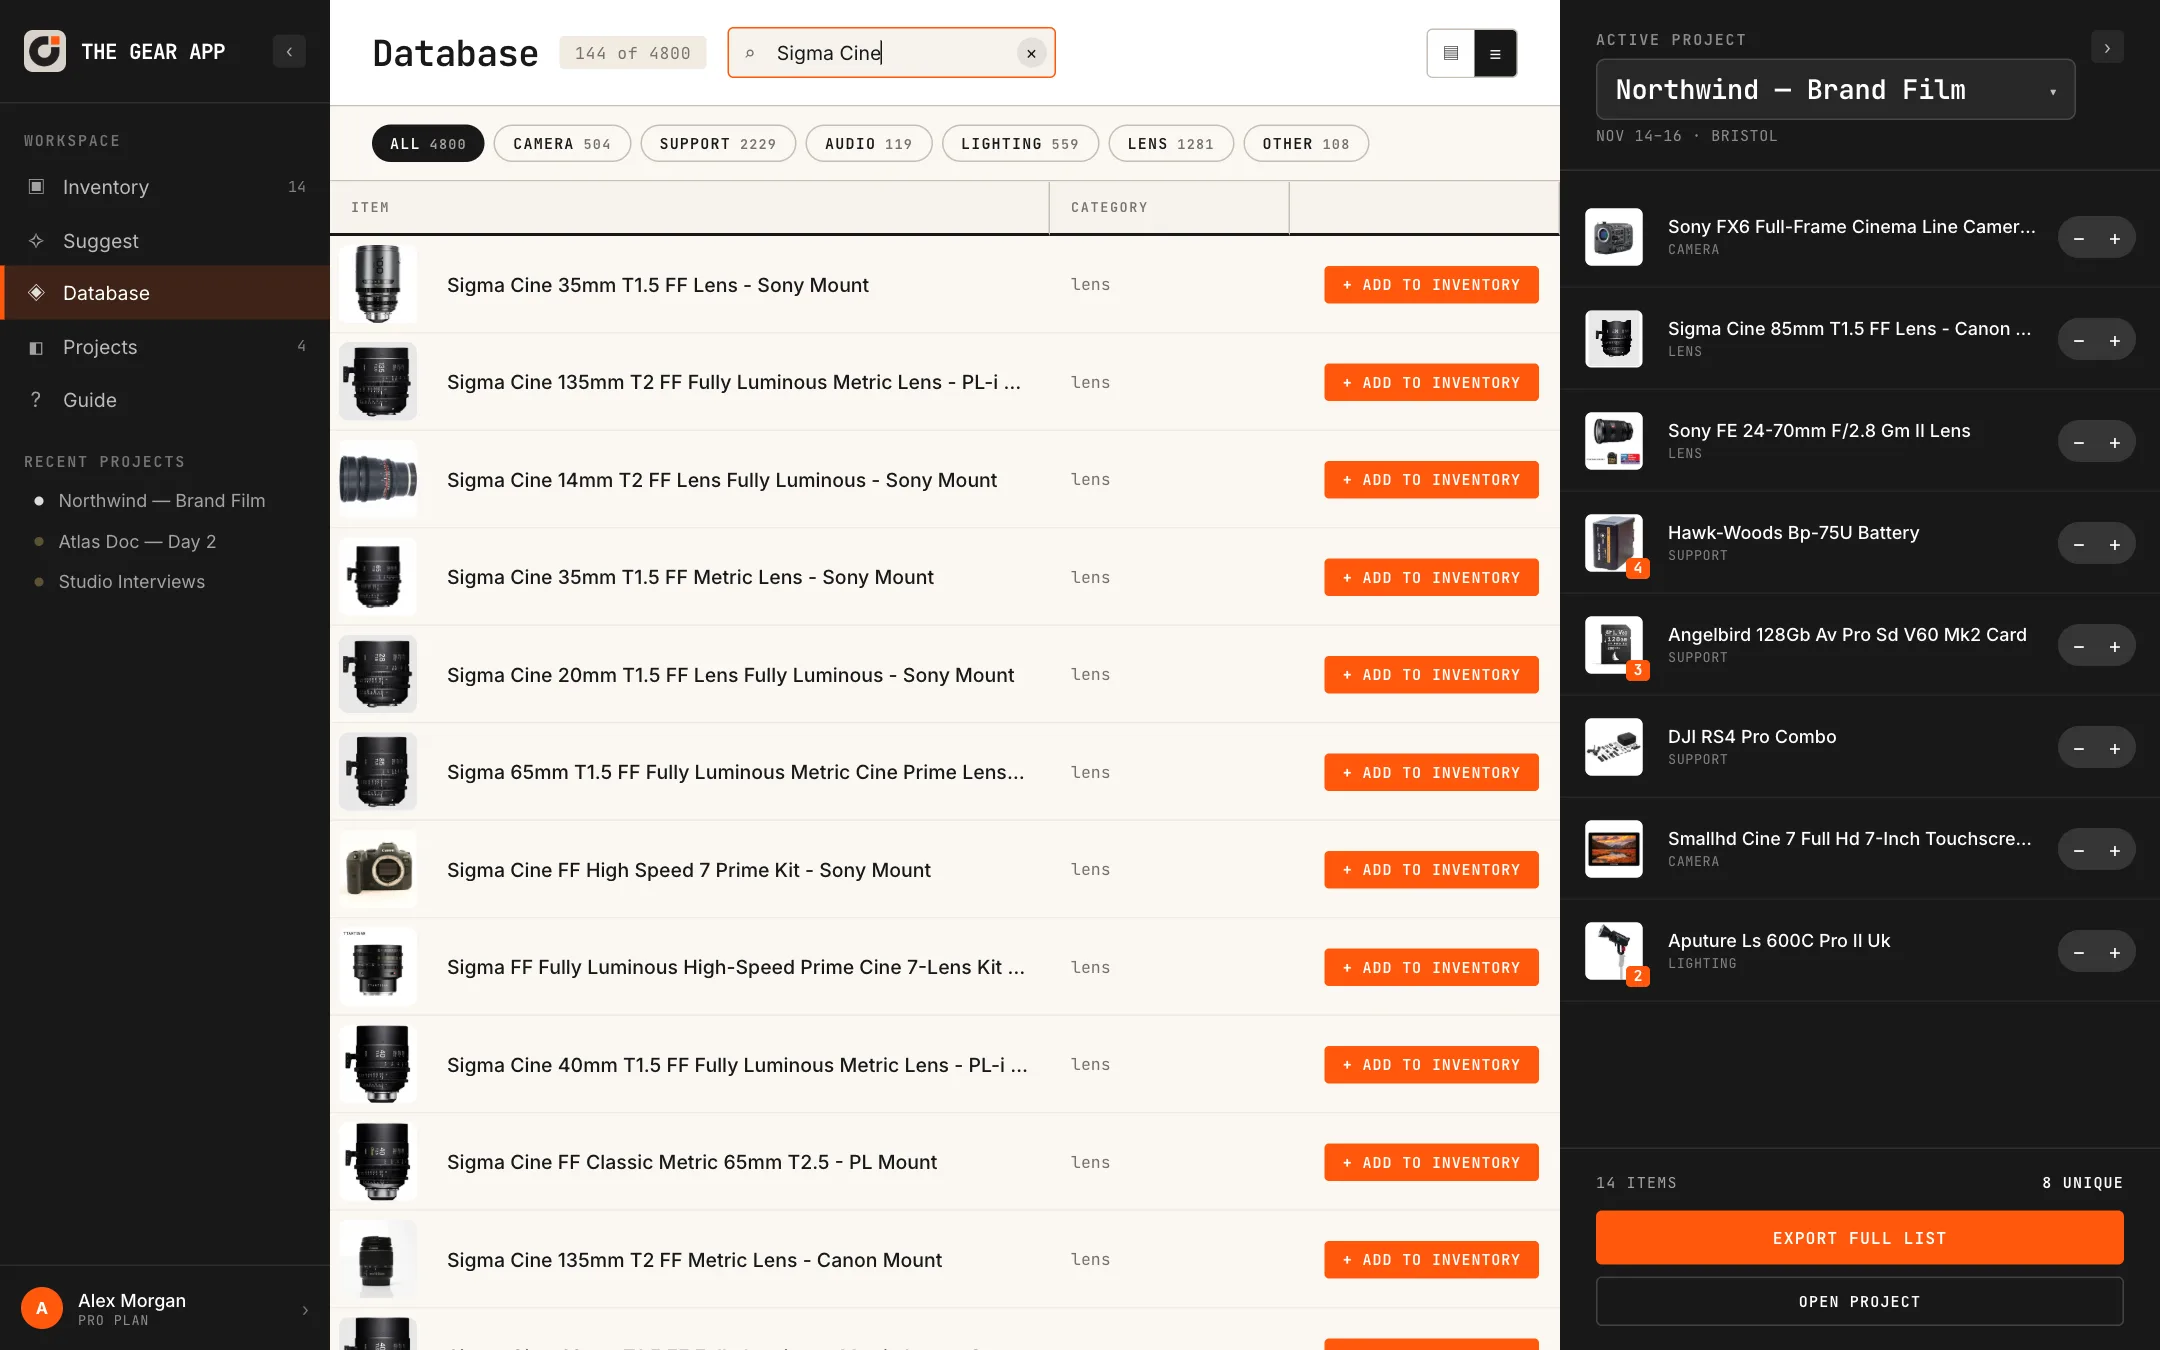
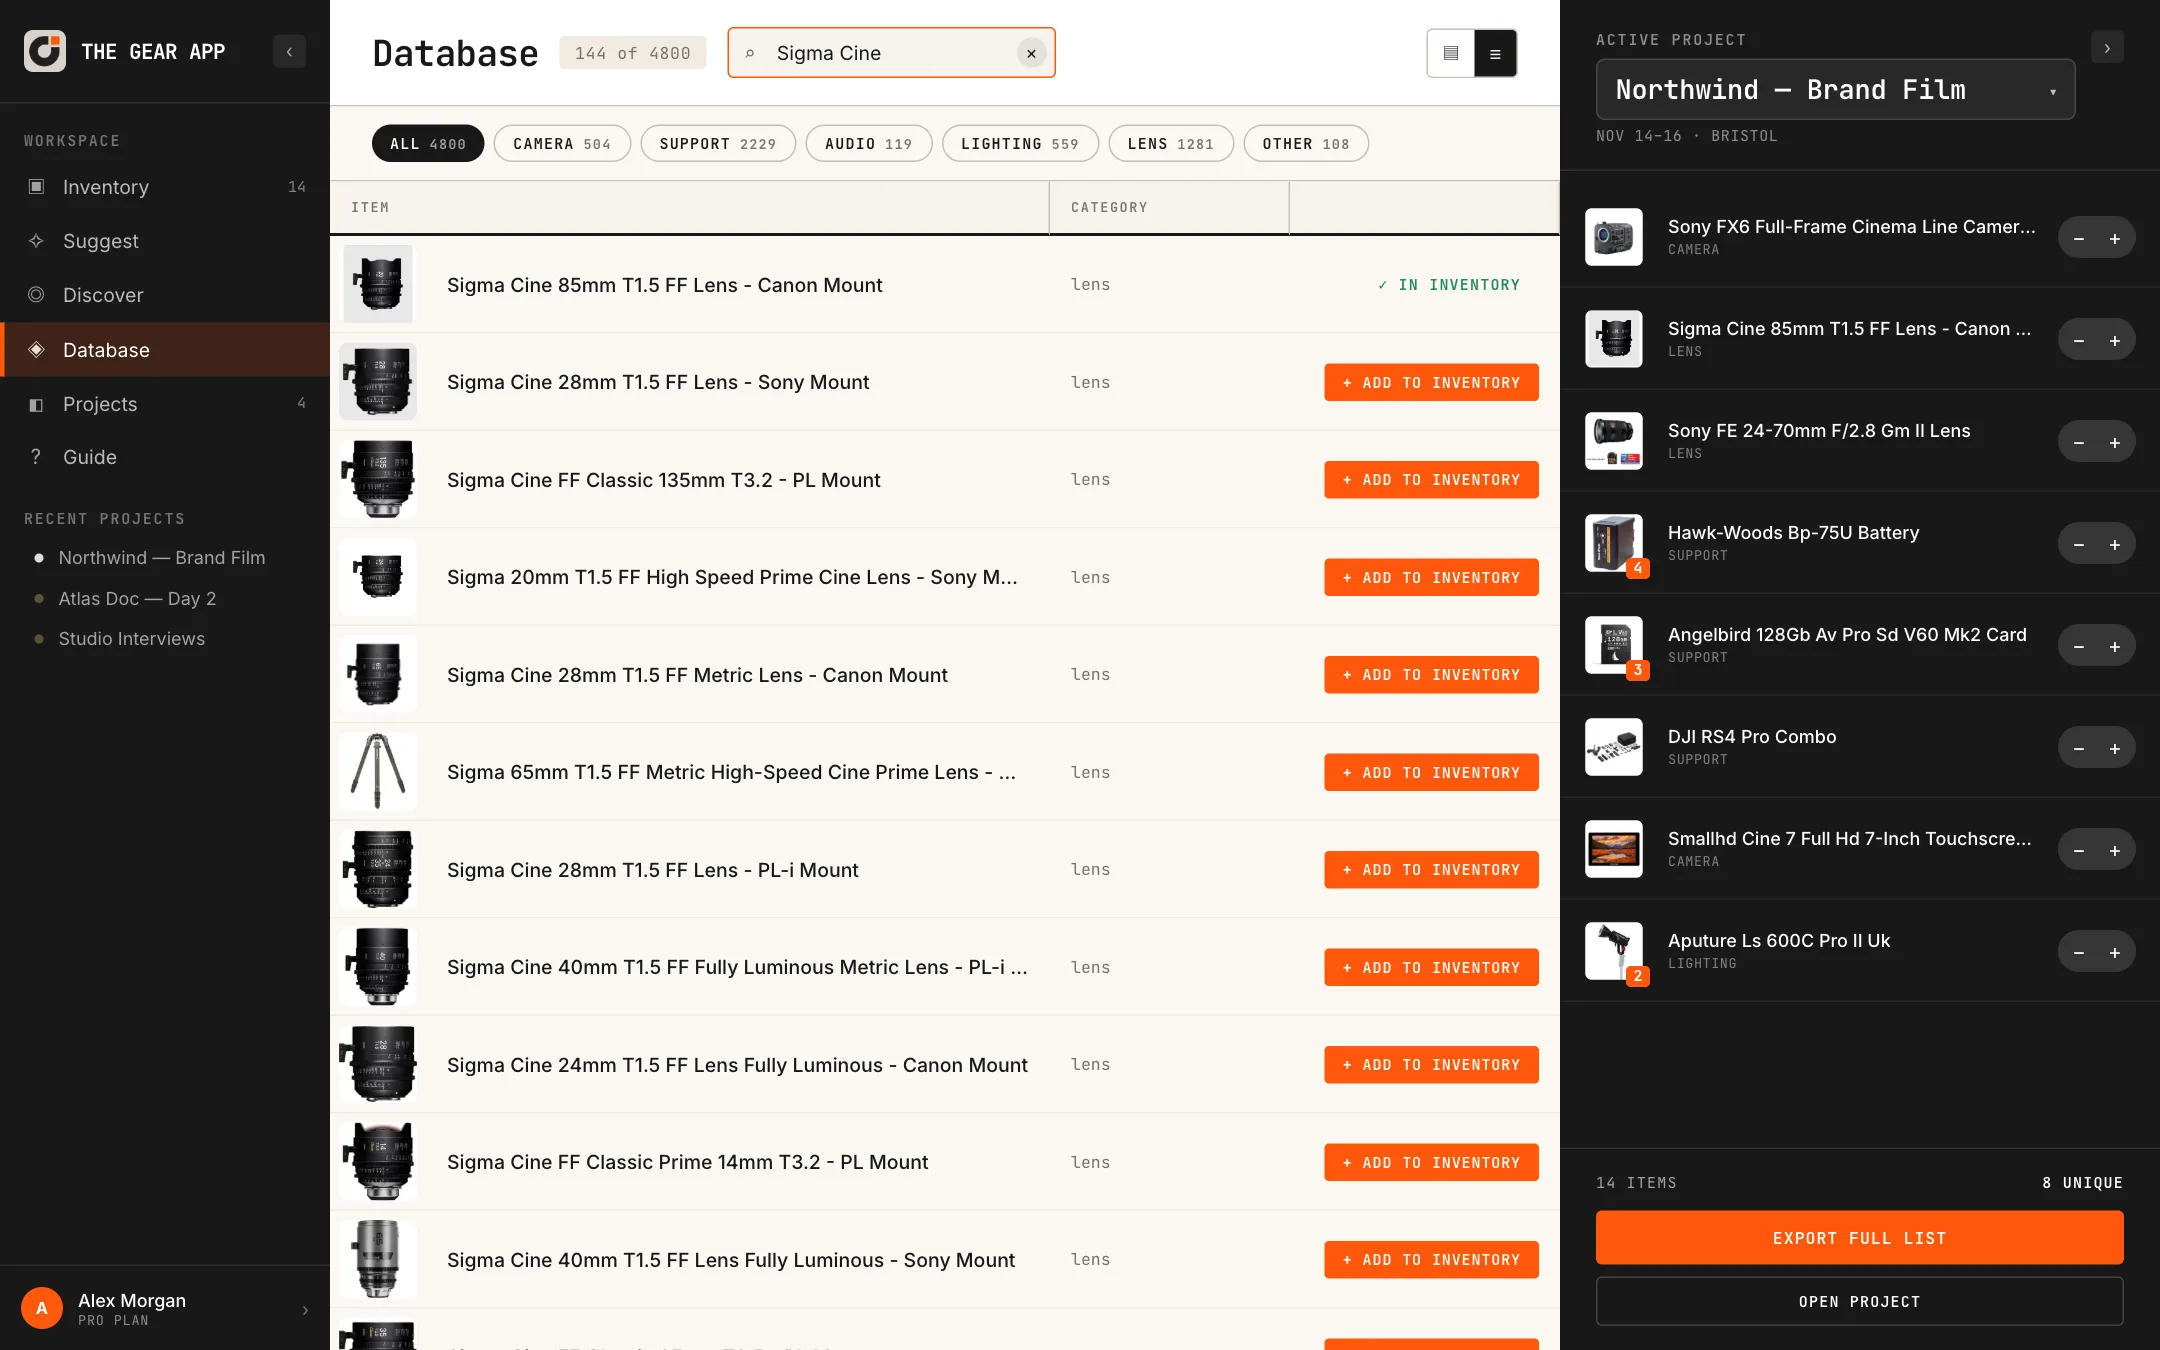
Guide follows the sidebar: add Discover, reorder, refresh screenshots
Feature cards and the walkthrough now run Inventory, Suggest, Discover,
Database, Projects (then the project view and export), matching the
sidebar. New Discover section and screenshot; all screenshots retaken so
they show the current sidebar.

diff --git a/studio-guide.jsx b/studio-guide.jsx
@@ -71,15 +71,16 @@
   }
 
   // ── Content ────────────────────────────────────────────────────────────
+  // In sidebar order, so the guide mirrors the app's navigation.
   const FEATURES = [
     { icon: '▣', page: 'inventory', title: 'Build your inventory', text: 'Add gear from a database of thousands of items or create your own. Track quantities and status, and group kit that travels together.' },
-    { icon: '◈', page: 'database', title: 'Search the database', text: 'Filter cameras, lenses, lighting, audio and support by category, then add items to your inventory or straight into a project.' },
-    { icon: '◧', page: 'projects', title: 'Sort your items into projects', text: 'Prep for each shoot by dragging items, or whole groups, into a project. Adjust quantities and track its status from planning to wrapped.' },
     { icon: '✧', page: 'suggest', title: 'Let AI build the kit', text: 'Describe the shoot and get a kit list that works together. Mounts, batteries, media, monitoring and gimbal payload are checked for you. Then ask for changes in plain English.' },
     { icon: '◎', page: 'discover', title: 'Discover new gear', text: 'Hand-picked new releases from across the industry, explained: what’s new, the key specs and what it costs.' },
-    { icon: '⤓', page: 'projects', title: 'Export your kit list', text: 'Download a clean PDF pull list to share with crew, rental houses or insurers.' },
+    { icon: '◈', page: 'database', title: 'Search the database', text: 'Filter cameras, lenses, lighting, audio and support by category, then add items to your inventory or straight into a project.' },
+    { icon: '◧', page: 'projects', title: 'Sort your items into projects', text: 'Prep for each shoot by dragging items, or whole groups, into a project. Adjust quantities, track its status and export a PDF pull list.' },
   ];
 
+  // In sidebar order; the project view and PDF export follow Projects.
   const WALKTHROUGH = [
     {
       img: 'guide/inventory.webp', page: 'inventory', label: 'Inventory', title: 'Your kit, organised',
@@ -89,6 +90,25 @@
         'Drag one item onto another to make a group, like an A-Cam package or a sound bag.',
         'Track how many you own and whether each is available, checked out or in for repair.',
         'Drag items, or a whole group, into the active project on the right.',
+      ],
+    },
+    {
+      img: 'guide/suggest.webp', page: 'suggest', label: 'Suggest', title: 'Let AI build the kit',
+      text: 'Describe the shoot in plain English and get a kit list in under a minute.',
+      points: [
+        'Every item is checked against the camera: lens mounts and adapters, sensor coverage, batteries, media, monitor connections, gimbal payload and XLR audio.',
+        'Anything missing comes with one-click fixes from the database.',
+        'Ask for changes, like “swap to a lighter camera for the gimbal”, and undo them.',
+        'History keeps every kit, and you can save one as a new project.',
+      ],
+    },
+    {
+      img: 'guide/discover.webp', page: 'discover', label: 'Discover', title: 'What’s new in gear',
+      text: 'A hand-picked feed of new releases from across the industry, kept up to date.',
+      points: [
+        'Each pick explains what’s new, with key specs, price and the date it was announced.',
+        'Open a pick for the full write-up and a link to the original announcement.',
+        'Add picks that are already in the database straight to your inventory.',
       ],
     },
     {
@@ -115,16 +135,6 @@
       points: [
         'Adjust quantities and the project’s status in edit mode.',
         'Jump to recent projects from the sidebar.',
-      ],
-    },
-    {
-      img: 'guide/suggest.webp', page: 'suggest', label: 'Suggest', title: 'Let AI build the kit',
-      text: 'Describe the shoot in plain English and get a kit list in under a minute.',
-      points: [
-        'Every item is checked against the camera: lens mounts and adapters, sensor coverage, batteries, media, monitor connections, gimbal payload and XLR audio.',
-        'Anything missing comes with one-click fixes from the database.',
-        'Ask for changes, like “swap to a lighter camera for the gimbal”, and undo them.',
-        'History keeps every kit, and you can save one as a new project.',
       ],
     },
     {
